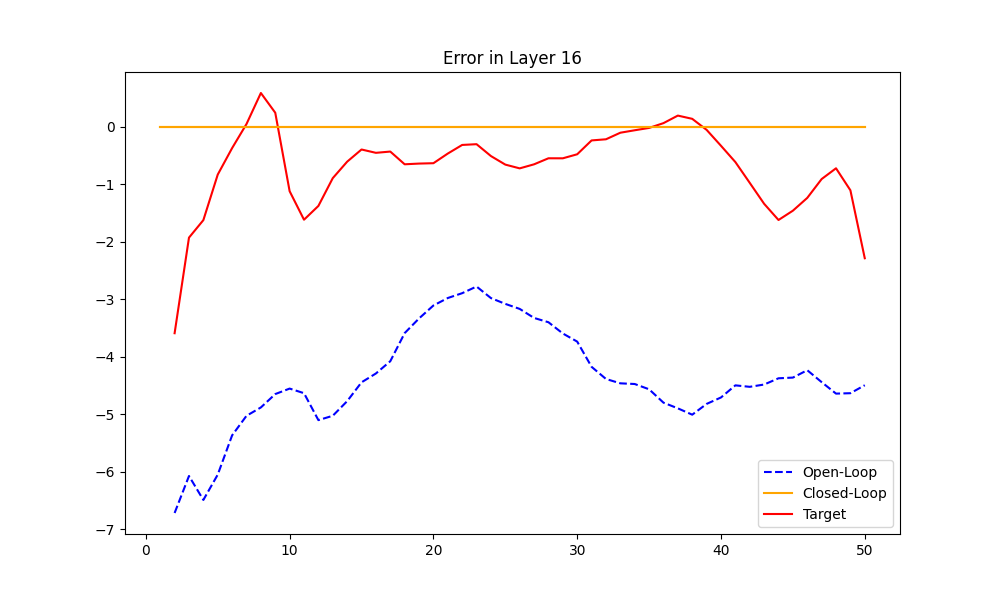
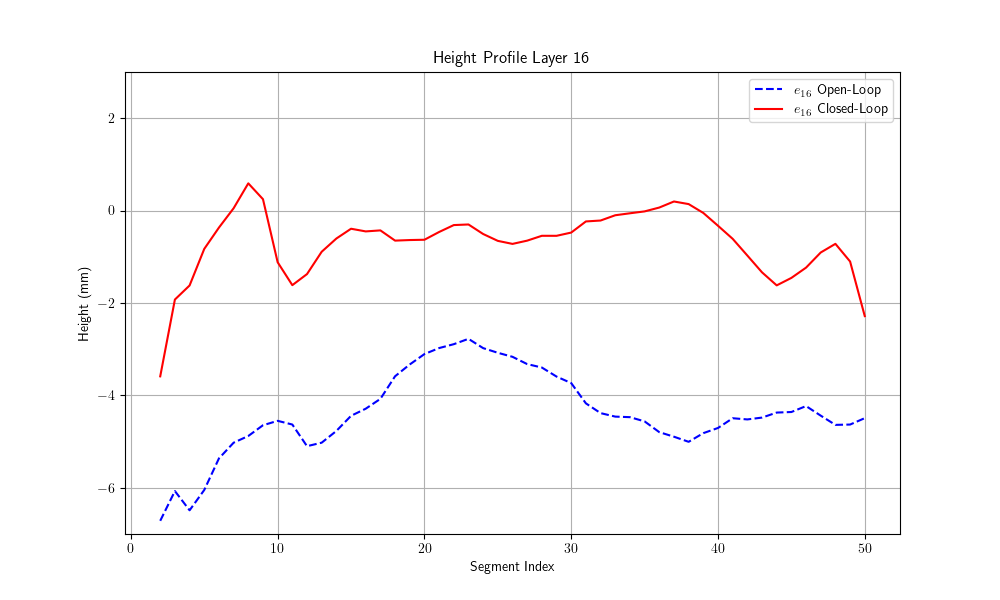
Generating error plots and height plots

diff --git a/FLIR/ir_vis_cv.py b/FLIR/ir_vis_cv.py
@@ -6,16 +6,16 @@ from flir_toolbox import *
 
 
 # Load the IR recording data from the pickle file
-with open('../../recorded_data/weld_scan_job205_v102023_07_27_12_16_49/layer_180/ir_recording.pickle', 'rb') as file:
+with open('../../recorded_data/ER4043_bent_tube_2024_09_04_12_23_40/layer_39/ir_recording.pickle', 'rb') as file:
     ir_recording = pickle.load(file)
 
-ir_ts=np.loadtxt('../../recorded_data/weld_scan_job205_v102023_07_27_12_16_49/layer_180/ir_stamps.csv', delimiter=',')
+ir_ts=np.loadtxt('../../recorded_data/ER4043_bent_tube_2024_09_04_12_23_40/layer_39/ir_stamps.csv', delimiter=',')
 
 print(len(ir_recording), len(ir_ts))
 
 result = cv2.VideoWriter('output.avi', 
-                         cv2.VideoWriter_fourcc(*'XVID'),
-                         30, (320,240))
+                         cv2.VideoWriter_fourcc(*'MJPG'),
+                         30, (240,320))
 
 # Create a window to display the images
 cv2.namedWindow("IR Recording", cv2.WINDOW_NORMAL)
@@ -26,16 +26,17 @@ colorbar_max = np.max(ir_recording)
 colorbar_max_pos = np.max(ir_recording)
 print(ir_recording.shape)
 
-temp_max = counts2temp(np.array([colorbar_max]), 6.39661118e+03, 1.40469989e+03, 1.00000008e+00, 8.69393436e+00, 8.40029488e+03,Emiss=0.13)
+temp_max = [1300]
+# counts2temp(np.array([colorbar_max]), 6.39661118e+03, 1.40469989e+03, 1.00000008e+00, 8.69393436e+00, 8.40029488e+03,Emiss=0.13)
 print("Temp Range: ", temp_max)
 
 for i in range(len(ir_recording)):
     # print(np.max(ir_recording[i]), np.min(ir_recording[i]))
-    centroid, bbox=flame_detection(ir_recording[i])
+    # centroid, bbox=flame_detection(ir_recording[i])
     
 
     temp=counts2temp(ir_recording[i].flatten(),6.39661118e+03, 1.40469989e+03, 1.00000008e+00, 8.69393436e+00, 8.40029488e+03,Emiss=0.13).reshape((240,320))
-    # temp[temp > 1300] = 1300    ##thresholding
+    temp[temp > 1300] = 1300    ##thresholding
     # Normalize the data to [0, 255]
     ir_normalized = ((temp - 0) / (temp_max[0] - 0)) * 255
 
@@ -46,22 +47,23 @@ for i in range(len(ir_recording)):
     ir_bgr = cv2.applyColorMap(ir_normalized.astype(np.uint8), cv2.COLORMAP_INFERNO)
 
     # add bounding box
-    if centroid is not None:
-        # cv2.rectangle(ir_bgr, (bbox[0],bbox[1]), (bbox[0]+bbox[2],bbox[1]+bbox[3]), (0,255,0), thickness=1)   #flame bbox
-        bbox_below_size=10
-        centroid_below=(int(centroid[0]+bbox[2]/2+bbox_below_size/2),centroid[1])
-        cv2.rectangle(ir_bgr, (int(centroid_below[0]-bbox_below_size/2),int(centroid_below[1]-bbox_below_size/2)), (int(centroid_below[0]+bbox_below_size/2),int(centroid_below[1]+bbox_below_size/2)), (0,255,0), thickness=1)   #flame below centroid
+    # if centroid is not None:
+    #     # cv2.rectangle(ir_bgr, (bbox[0],bbox[1]), (bbox[0]+bbox[2],bbox[1]+bbox[3]), (0,255,0), thickness=1)   #flame bbox
+    #     bbox_below_size=10
+    #     centroid_below=(int(centroid[0]+bbox[2]/2+bbox_below_size/2),centroid[1])
+    #     cv2.rectangle(ir_bgr, (int(centroid_below[0]-bbox_below_size/2),int(centroid_below[1]-bbox_below_size/2)), (int(centroid_below[0]+bbox_below_size/2),int(centroid_below[1]+bbox_below_size/2)), (0,255,0), thickness=1)   #flame below centroid
 
-    cv2.rectangle(ir_bgr, (50,110,95,60), (255,0,0), thickness=1)   #flame below centroid
+    # cv2.rectangle(ir_bgr, (50,110,95,60), (255,0,0), thickness=1)   #flame below centroid
 
     # Write the IR image to the video file
-    result.write(ir_bgr)
+    rotated=cv2.rotate(ir_bgr, cv2.ROTATE_90_CLOCKWISE)
+    result.write(rotated)
 
     # Display the IR image
-    cv2.imshow("IR Recording", ir_bgr)
+    # cv2.imshow("IR Recording", ir_bgr)
 
-    # Wait for a specific time (in milliseconds) before displaying the next frame
-    cv2.waitKey(int(1000*(ir_ts[i+1]-ir_ts[i])))
+    # # Wait for a specific time (in milliseconds) before displaying the next frame
+    # cv2.waitKey(int(1000*(ir_ts[i+1]-ir_ts[i])))
 
 result.release()
 # Close the window after the loop is completed

diff --git a/scan/angled_layer/rms_process.py b/scan/angled_layer/rms_process.py
@@ -8,7 +8,7 @@ from robotics_utils import H_inv
 sys.path.append('../../toolbox')
 from angled_layers import avg_by_line, rotate
 
-# plt.rcParams['text.usetex'] = True
+plt.rcParams['text.usetex'] = True
 
 def rms_error(data):
     data = np.array(data)
@@ -71,10 +71,10 @@ fig.set_dpi(200)
 plt_params = [
     'b--',
     'r',
-    'orange'
+    'g-.'
 ]
 
-layer_start = 71
+layer_start = 1
 rms_errs = []
 
 for idx,flame_set in enumerate(flame_sets):
@@ -102,7 +102,7 @@ for idx,flame_set in enumerate(flame_sets):
     height_err = []
     flames_flat = []
     # for layer, flame in enumerate(flames):
-    for layer, flame in enumerate(flames[layer_start:layer_start+1]):
+    for layer, flame in enumerate(flames):
         to_flat_angle = np.deg2rad(layer_angle*(layer+layer_start))
         for i in range(flame.shape[0]):
             flame[i,1:] = R.T @ flame[i,1:]
@@ -113,15 +113,16 @@ for idx,flame_set in enumerate(flame_sets):
         flame[:, 1] = new_x
         flame[:, 3] = new_z - base_thickness
 
+        print(flame[:,0])
         flame[:,0] = flame[:,0]-job_no_offset
         averages= avg_by_line(flame[:,0], flame[:,1:], np.linspace(0,49,50))
+        print(averages)
         height_err.append(averages[:,2])
         flames_flat.append(averages)
-        if idx == 1:
-            ax.plot(np.linspace(1,50,50),averages[:,2], plt_params[idx])
-        ax.plot(np.linspace(1,50,50),height_profile, plt_params[2])
-        # ax.plot(np.linspace(1,50,50),np.zeros(50), plt_params[2])
-
+        # if idx == 1:
+        #     ax.plot(np.linspace(1,50,50),averages[:,2], plt_params[idx])
+        ax.plot(np.linspace(1,50,50),averages[:,2], plt_params[idx])
+    
         
 
 
@@ -135,6 +136,9 @@ for idx,flame_set in enumerate(flame_sets):
     for scan in height_err:
         rms_err.append(rms_error(scan))
     rms_errs.append(rms_err)
+# ax.plot(np.linspace(1,50,50),height_profile, plt_params[2])
+# ax.plot(np.linspace(1,50,50),np.zeros(50), plt_params[2])
+print(len(height_err))
 print("max openloop error: ", np.max(rms_errs[0]))
 print("max closed-loop error: ", np.max(rms_errs[1]))
 ax_2.plot(np.linspace(1,len(height_err),len(height_err)),rms_errs[0], plt_params[0])
@@ -142,11 +146,18 @@ ax_2.plot(np.linspace(1,len(height_err),len(height_err)),rms_errs[1], plt_params
 ax_2.set_xlabel("Layer Number")
 ax_2.set_ylabel("RMSE (mm)")
 ax_2.legend(["Open-Loop", "Closed-Loop"])
-ax.legend(["Closed-Loop", "Target"])
+ax.legend(["$e_{16}$ Open-Loop", "$e_{16}$ Closed-Loop"])
+# ax.legend(["$h_{16}$ Open-Loop","$h_{16}$ Closed-Loop", "$\delta h_{d,16}$"])
+# ax.legend(["$h_{72}$ Closed-Loop", "$\delta h_{d,72}$"])
 ax.set_title(f"Height Profile Layer {layer_start+1}")
+ax.set_xlabel("Segment Index")
+ax.set_ylabel("Height (mm)")
+# ax.set_ylabel("Error (mm)")
+ax.set_ylim(-7,3)
+ax.grid()
 ax_2.grid()
-# fig_2.savefig('rms_plot.png')
-fig.savefig(f'height_profile_{layer_start+1}.png')
+fig_2.savefig('rms_plot.png')
+fig.savefig(f'error_profile_{layer_start+1}.png')
 plt.show()
 
 

diff --git a/scan/angled_layer/vel_profile_vis.py b/scan/angled_layer/vel_profile_vis.py
@@ -9,6 +9,7 @@ vel_profile = np.loadtxt(
     cap_data+"velocity_profile.csv",
     delimiter = ','
 )
+plt.rcParams['text.usetex'] = True
 
 import sys
 import yaml
@@ -52,11 +53,38 @@ positioner = positioner_obj(
     tool_file_path=config_dir+"positioner_tcp.csv",
     pulse2deg_file_path=config_dir+"D500B_pulse2deg_real.csv",
     base_transformation_file=config_dir+"D500B_pose.csv",
-)
+)  
 
-ax.plot(vel_profile, 'r')
+job_no_offset=3
+cart_vels = []
+job_no = []
+joint_angle = np.loadtxt(cap_data+'weld_js_exe.csv', delimiter=',')
+for idx in range(joint_angle.shape[0]):
+    robot1_pose=robot.fwd(joint_angle[idx][2:8])
+    time_stamp=joint_angle[idx][0]
+    if idx==0: 
+        pose_prev=robot1_pose.p
+        time_prev=time_stamp
+    else:
+        cart_dif=robot1_pose.p-pose_prev
+        time_dif = time_stamp-time_prev
+        time_prev = time_stamp
+        cart_vel = cart_dif/time_dif
+        time_prev = time_stamp
+        pose_prev = robot1_pose.p
+        lin_vel = np.sqrt(cart_vel[0]**2+cart_vel[1]**2)
+        cart_vels.append(lin_vel)
+        job_no.append(int(joint_angle[idx][1]))
+
+job_no=[x-job_no_offset for x in job_no]
+avg_vels = avg_by_line(np.array(job_no), np.array(cart_vels), np.linspace(0,49,50))
+print(avg_vels.shape)
+ax.plot(np.linspace(1,50,50),vel_profile, 'b--')
+ax.plot(np.linspace(1,50,50),avg_vels, 'r')
 ax.set_xlabel("Segment Number")
 ax.set_ylabel("Velocity (mm/s)")
 ax.set_title(f"Layer {layer} Velocity Profile")
+ax.grid()
+ax.legend(["Set Velocity", "Measured Velocity"])
 fig.savefig(f'velocity_profile_{layer}.png')
 plt.show()

diff --git a/FLIR/ir_vis.py b/FLIR/ir_vis.py
@@ -4,10 +4,10 @@ import pickle, sys
 sys.path.append('../toolbox/')
 from flir_toolbox import *
 
-with open('../../recorded_data/ER4043_bent_tube_2024_08_28_12_24_30/layer_2/ir_recording.pickle', 'rb') as file:
+with open('../../recorded_data/ER4043_bent_tube_2024_09_04_12_23_40/layer_2/ir_recording.pickle', 'rb') as file:
     ir_recording = pickle.load(file)
 freq=30
-
+print(type(ir_recording))
 fig = plt.figure(1)
 for i in range(len(ir_recording)):
     temp=counts2temp(ir_recording[i].flatten(),6.39661118e+03, 1.40469989e+03, 1.00000008e+00, 8.69393436e+00, 8.40029488e+03,Emiss=0.13).reshape((240,320))
